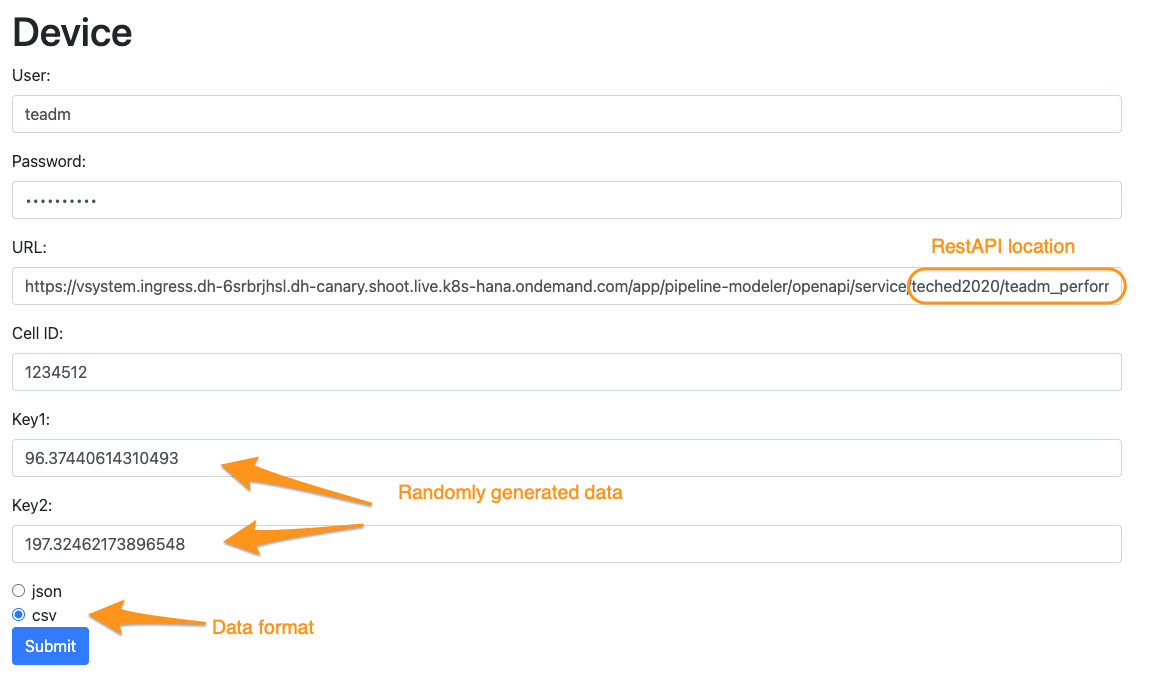
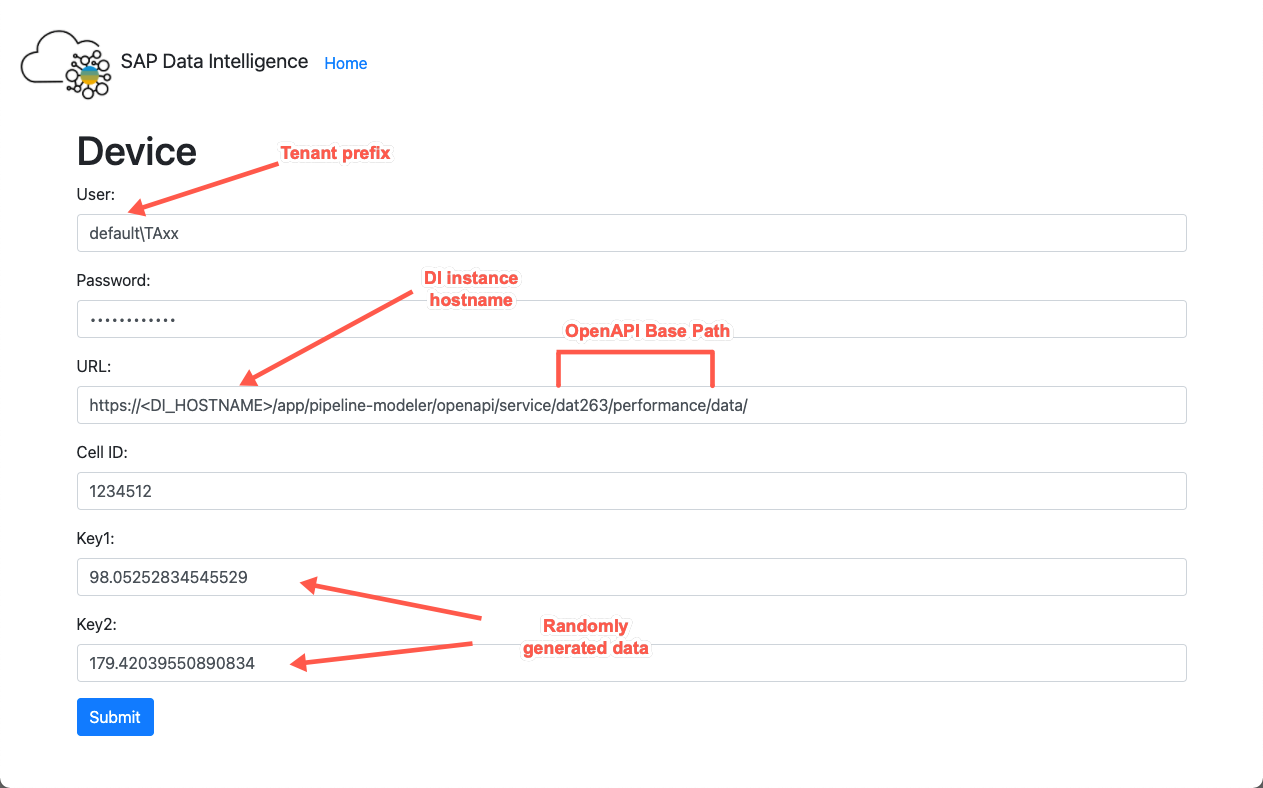
Updated screenshot for ex5

diff --git a/exercises/3h/ex5/README.md b/exercises/3h/ex5/README.md
@@ -15,25 +15,26 @@ Creating a Pipeline with a web-service that can be called externally and hand ov
 
 In order to test the Rest API service a client application is provided which can generate and send example data to web service. You may alternatively use the Postman application or the terminal command `curl`.
 
+
 ## Exercise 5.1
-Each running pipeline consumes a node in the cluster. Due to the limited size of our workshop-cluster we ask you kindly to ensure that the web-service pipeline is only running as short as possible. For testing purpose we write the web-service response to a file and then terminate the graph.
+Each running pipeline consumes a node in the cluster. If you are using a shared clusters with many users it is highly encouraged to ensure that the web-service pipeline is only running as short as possible. For that reason we will design the pipeline to terminate as as soon as it has received a new record and appended it to a file.
 
 Creating the basic RestAPI:
 
 1. Create new Graph
 2. Add the RestAPI operator **OpenAPI Servlow** and the **Wiretap** operator
 3. Configure the **OpenAPI Servlow** operator
-	1.  Base Path: 'teched2020/\<di_user\>\_performance - This defines which service the Web-server calls. (Attention: No leading '/')
-	2. One-Way: True (operator is not waiting for a response but sends immediately HTTP 204 back.
-4. Add the **Write File** operator and the **To File** converter
+	1.  **Base Path**: `teched2020/<your_username>_performance` - This defines the path on which the web server can be accessed
+	2. **One-Way**: `True` (Operator will not return a response to the client and instead sends immediately HTTP 204 back)
+4. Add the **To File** converter and the **Write File** operator, then connect them
 5. Configure the **Write File** operator for adding the data to your `performance.csv`:
-	1. Connection: DI_DATA_LAKE
-	2. Path mode: "Static (from configuration)
-	3. Path: */shared/\<di_user\>/performance.csv*
-	4. Mode: "Append"
-6. Add the **Workflow Terminator** to the graph. Of course if run productively there would be no "Terminator" but run perpetually.
+	1. **Connection**: `DI_DATA_LAKE`
+	2. **Path mode**: Static (from configuration)
+	3. **Path**: `/shared/<your_username>/performance.csv`
+	4. **Mode**: Append
+6. Add the **Workflow Terminator** to the graph. Of course if this was pipeline running productively we would not use a terminator and the graph would run perpetually
 7. Connect all operators  
-8. Save the pipeline as `taxx.DeviceRestAPI`
+8. Save the pipeline as `<your_username>.DeviceRestAPI`
 
 ![restapi](./images/restapi1.png)
 
@@ -47,30 +48,33 @@ Creating the basic RestAPI:
 
 ### HTML Test Page
 
-The easiest way to test the Rest API is using the small web application we have developed for this workshop [https://sendcelldata.cfapps.eu10.hana.ondemand.com](https://sendcelldata.cfapps.eu10.hana.ondemand.com).
+The easiest way to test the Rest API is using the small web application we have developed for this particular tutorial [https://sendcelldata.cfapps.eu10.hana.ondemand.com](https://sendcelldata.cfapps.eu10.hana.ondemand.com).
 
-Be sure to use your `TAxx` credentials.
+Be sure to use the tenant name as a prefix and your username e.g. `TAxx` or `system` as credentials e.g. `default\system`
+
+Note, that the URL must end with a forward slash ( / ) otherwise you will get the error **`RestAPI not running!`**
 
 ![Test Page](./images/TestRestAPI.png)
 
-![Response Page](./images/ResponseTestRestAPI.png)
 
-### (Optional) Using Postman to test REST API
+### (Optional/Alternative) Using Postman to test REST API
 #### Request URL
 
 
-Substitute the URL and the user ID and send a POST request to: `https://<url pipeline modeler>/openapi/service/ta<xx>_performance/test`
+Substitute the URL and the user ID and send a POST request to: `https://<url pipeline modeler>/openapi/service/teched2020/<your_username>_performance/`
 
 It is important to add a process-tag at the end, otherwise the request gets an error although the process tag is not used.
 
 #### Request Header
-In the "Headers"-tab add the parameter: X-Requested-With - XMLHttpRequest. Without this parameter you get the error: "Forbidden cross-site request"
+In the "Headers"-tab add the following header: `X-Requested-With` :  `XMLHttpRequest`.
+
+Without this parameter you get the error: `Forbidden cross-site request`
 
 ![postman1](./images/postman1.png)
 
 #### Authorization
 1. Change the authorization TYPE: Basic Auth
-2. The username must be prefixed with the tenant ID followed by a backslash e.g. `dat263\taXX`
+2. The username must be prefixed with the tenant ID followed by a backslash and then the username e.g. `default\taXX`
 
 ![postman3](./images/postman3.png)
 
